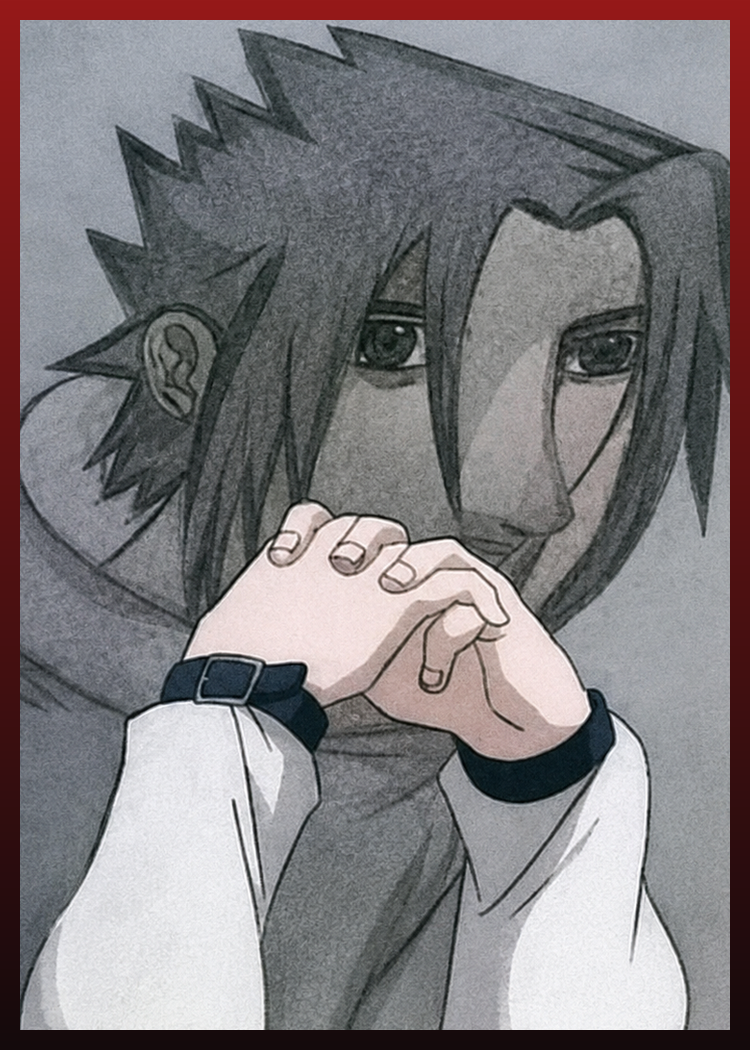
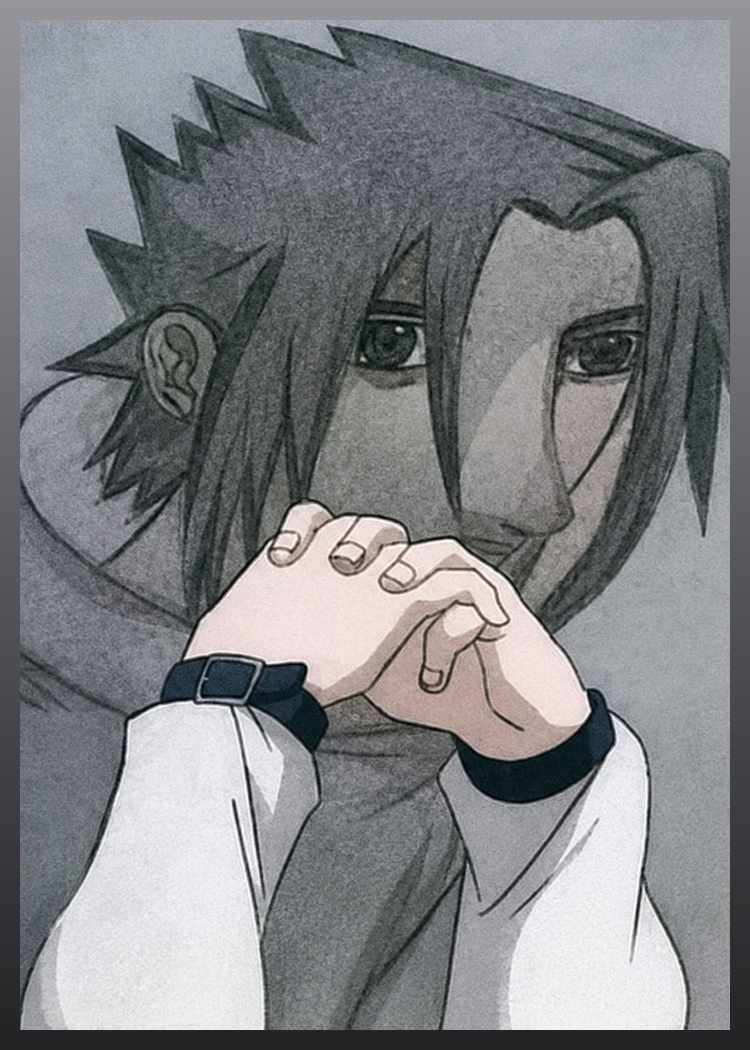
Change Sasuke's protector border from red to silver/charcoal gradient
User didn't like the red border against Sasuke's grayscale art -- swapped
to a silver-to-charcoal gradient that matches the image's own gray/black
palette instead of contrasting against it. Bumped to ?v=4.

Changed region(s): [[0.0, 0.0, 1.0, 1.0]]

diff --git a/ui.js b/ui.js
@@ -88,7 +88,7 @@ var CARD_BACK_OPTIONS = [
   { id: 'protector_pokebola_morada', name: 'Poké Ball Morada', img: 'Cartas/Protector_PokebolaMorada.png?v=4', cost: PROTECTOR_COST },
   { id: 'protector_fantasma', name: 'Fantasma', img: 'Cartas/Protector_Fantasma.png?v=2', cost: PROTECTOR_COST },
   { id: 'protector_perona', name: 'Perona', img: 'Cartas/Protector_Perona.png?v=2', cost: PROTECTOR_COST },
-  { id: 'protector_sasuke', name: 'Sasuke', img: 'Cartas/Protector_Sasuke.png?v=3', cost: PROTECTOR_COST },
+  { id: 'protector_sasuke', name: 'Sasuke', img: 'Cartas/Protector_Sasuke.png?v=4', cost: PROTECTOR_COST },
   { id: 'protector_squirtle', name: 'Squirtle', img: 'Cartas/Protector_Squirtle.png?v=3', cost: PROTECTOR_COST },
   { id: 'protector_charmander', name: 'Charmander', img: 'Cartas/Protector_Charmander.png?v=3', cost: PROTECTOR_COST },
   { id: 'protector_bulbasaur', name: 'Bulbasaur', img: 'Cartas/Protector_Bulbasaur.png?v=3', cost: PROTECTOR_COST },
